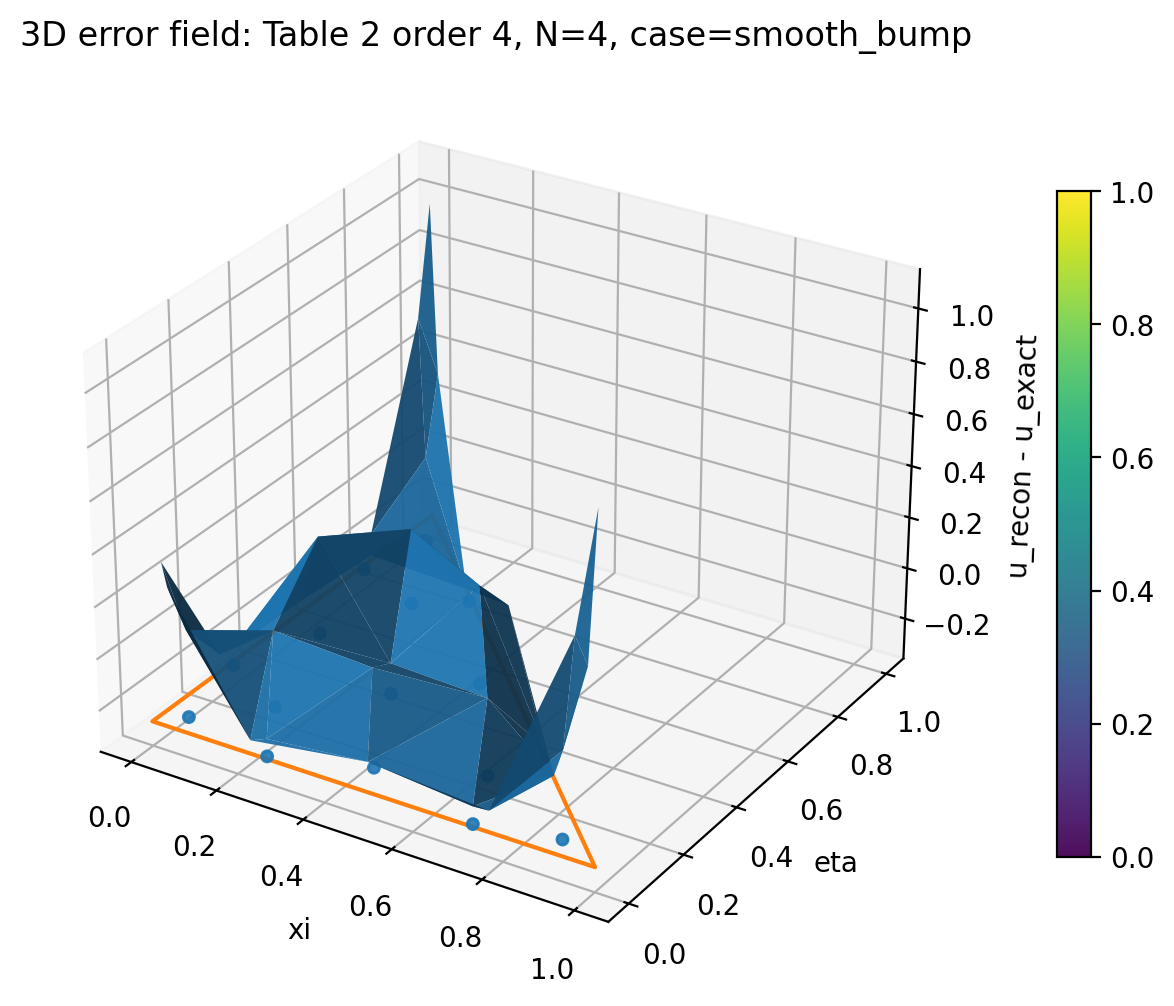
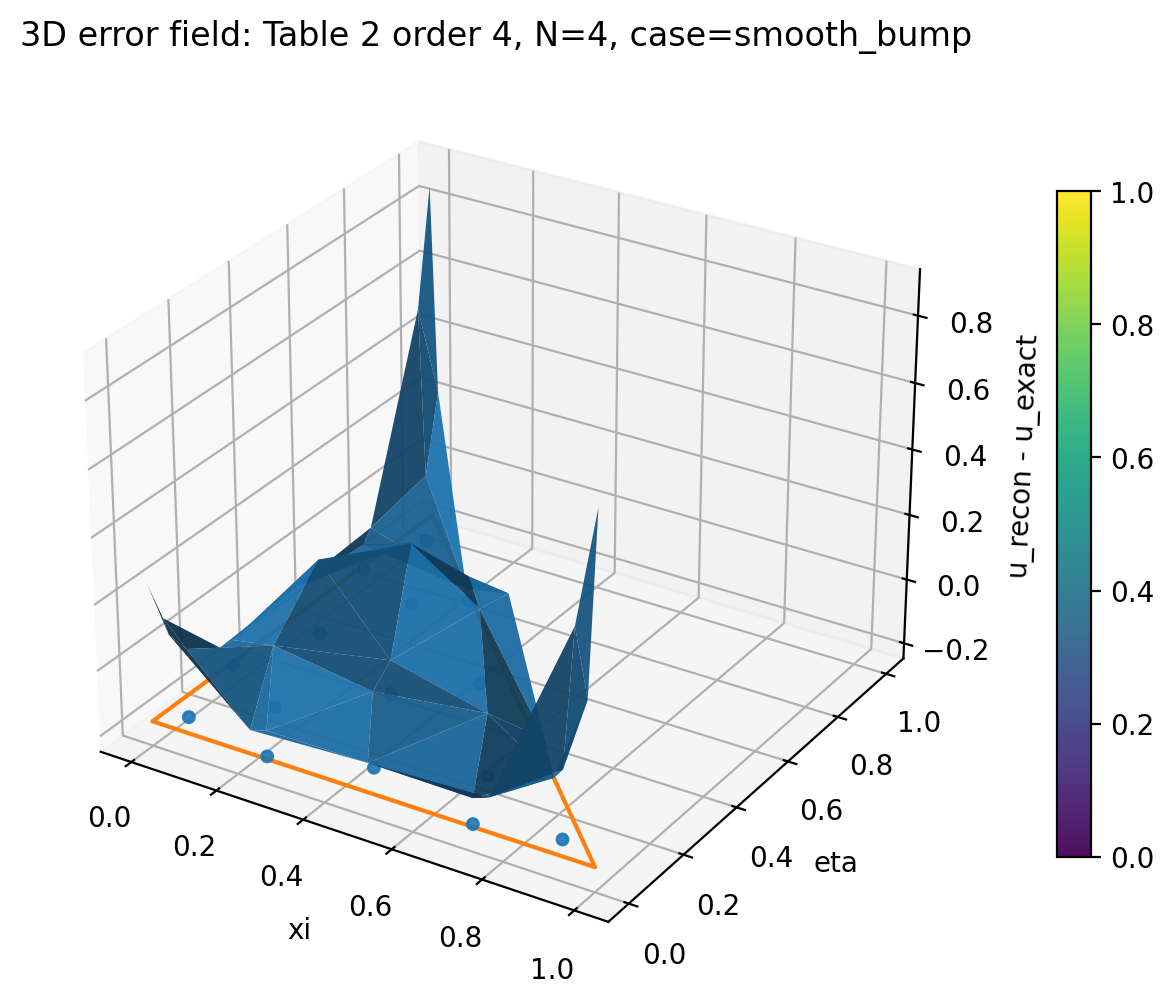
verify some math logic, check identity

diff --git a/problems/analytic_fields.py b/problems/analytic_fields.py
@@ -26,12 +26,16 @@ def ground_truth_function(case_name: str, x, y, **params) -> np.ndarray:
             - 0.4 * y
             + 0.6 * x * y
             + 0.3 * x**2
+            - 0.2 * y**2
+            + 0.1 * x**2 * y
+            - 0.05 * x * y**2
+            + 0.02 * x**2 * y**2
         )
 
     if case == "smooth_bump":
-        x0 = params.get("x0", 0.35)
-        y0 = params.get("y0", 0.30)
-        sigma = params.get("sigma", 0.12)
+        x0 = params.get("x0", 1/3)
+        y0 = params.get("y0", 1/3)
+        sigma = params.get("sigma", np.sqrt(1/30))
         return np.exp(-((x - x0)**2 + (y - y0)**2) / (2.0 * sigma**2))
 
     if case == "trig":

diff --git a/operators/reconstruction.py b/operators/reconstruction.py
@@ -81,7 +81,14 @@ def fit_modal_coefficients_weighted(
         raise ValueError("Size mismatch between V and weights.")
 
     M = mass_matrix_from_quadrature(V, weights, area=area)
-    rhs = area * (V.T @ (weights * u_nodes))
+
+    print(M.shape)
+    rhs = area * (V.T @ (weights * u_nodes)) # = M a
+    weights = np.diag(weights)
+    print(rhs.shape)
+    print(V.shape)
+    print(area * V @ np.linalg.inv(M) @ (V.T @ (weights)))
+    print(np.linalg.matrix_rank(area * V @ np.linalg.solve(M, V.T @ weights)))
     return np.linalg.solve(M, rhs)
 
 

diff --git a/demo/demo_error_field_table2.py b/demo/demo_error_field_table2.py
@@ -43,6 +43,9 @@ def main() -> None:
 
     V = vandermonde2d(N, rs_nodes[:, 0], rs_nodes[:, 1])
     coeffs = fit_modal_coefficients_weighted(u_nodes, V, w, area=area)
+    print(V @ coeffs)
+    print(u_nodes)
+    
     from geometry.display_points import build_display_points
     xy_eval = build_display_points(
         table_name="table2",

diff --git a/operators/vandermonde2d.py b/operators/vandermonde2d.py
@@ -39,7 +39,7 @@ def vandermonde2d(N: int, r, s) -> np.ndarray:
 
     for k, (i, j) in enumerate(mode_indices_2d(N)):
         V[:, k] = simplex2d_mode(i, j, r, s)
-
+    print(V.shape)
     return V
 
 

diff --git a/demo/demo_error_field_table1.py b/demo/demo_error_field_table1.py
@@ -31,7 +31,7 @@ def main() -> None:
     table_order = 4
     N = 4
     resolution = 60
-    case_name = "smooth_bump"
+    case_name = "poly2"
 
     rule = load_table1_rule(table_order)
 
